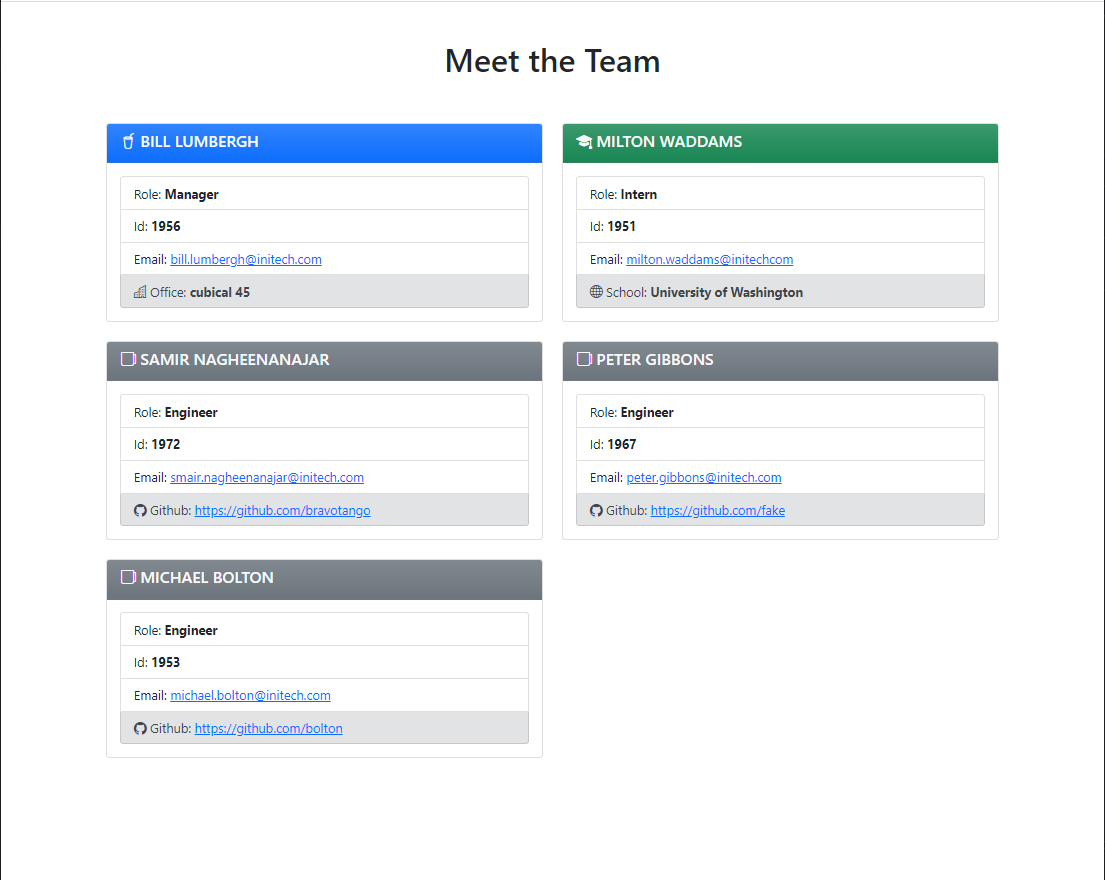
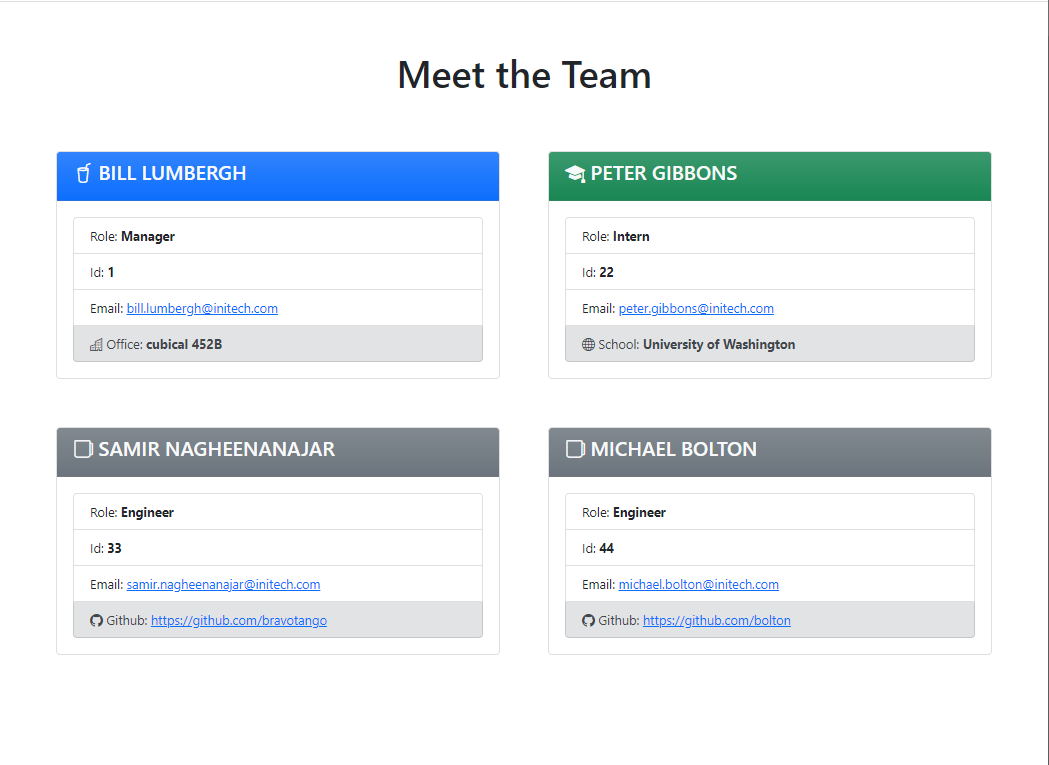
Updated README, Screenshots, & Output file

diff --git a/dist/index.html b/dist/index.html
@@ -1,0 +1,128 @@
+<!DOCTYPE html>
+  <html lang="en">
+  <head>
+      <meta charset="UTF-8">
+      <meta http-equiv="X-UA-Compatible" content="IE=edge">
+      <meta name="viewport" content="width=device-width, initial-scale=1.0">
+      <link href="https://cdn.jsdelivr.net/npm/bootstrap@5.1.3/dist/css/bootstrap.min.css" rel="stylesheet" integrity="sha384-1BmE4kWBq78iYhFldvKuhfTAU6auU8tT94WrHftjDbrCEXSU1oBoqyl2QvZ6jIW3" crossorigin="anonymous">
+      <link rel="stylesheet" href="https://cdn.jsdelivr.net/npm/bootstrap-icons@1.7.1/font/bootstrap-icons.css">
+      <style>body{font-size:80%;}</style>
+      <title>Team Profile</title>
+  </head>
+  <body>
+    <div class="container p-5">
+      <div class="row">
+        <h1 class="text-center">Meet the Team</h1>
+      </div>
+    </div>
+    <div class="container">
+      <div class="row g-5">
+        <div class="col-sm-12 col-lg-6">
+          <div class='card'>
+            <div class="card-header bg-primary bg-gradient text-light">
+              <h5 class='card-title'>
+              <i class='bi bi-cup-straw'></i>
+              BILL LUMBERGH
+              </h5>
+            </div>
+            <div class='card-body'>
+              <ul class='list-group'>
+                <li class='list-group-item'>
+                  Role: <strong>Manager</strong>
+                </li>
+                <li class='list-group-item'>
+                  Id: <strong>1</strong>
+                </li>            
+                <li class='list-group-item'>
+                  Email:  
+                  <a href="mailto: bill.lumbergh@initech.com">bill.lumbergh@initech.com</a>
+                </li>
+                <li class='list-group-item list-group-item-secondary'>
+                  <i class="bi bi-building"></i> Office: <strong>cubical 452B</strong>
+                </li>
+              </ul>
+            </div>
+          </div>
+        </div><div class="col-sm-12 col-lg-6">
+          <div class='card'>
+            <div class="card-header bg-success bg-gradient text-light">
+              <h5 class='card-title'>
+              <i class='bi bi-mortarboard-fill'></i>
+              PETER GIBBONS
+              </h5>
+            </div>
+            <div class='card-body'>
+              <ul class='list-group'>
+                <li class='list-group-item'>
+                  Role: <strong>Intern</strong>
+                </li>
+                <li class='list-group-item'>
+                  Id: <strong>22</strong>
+                </li>            
+                <li class='list-group-item'>
+                  Email:  
+                  <a href="mailto: peter.gibbons@initech.com">peter.gibbons@initech.com</a>
+                </li>
+                <li class='list-group-item list-group-item-secondary'>
+                  <i class="bi bi-globe"></i> School: <strong>University of Washington</strong>
+                </li>
+              </ul>
+            </div>
+          </div>
+        </div><div class="col-sm-12 col-lg-6">
+          <div class='card'>
+            <div class="card-header bg-secondary bg-gradient text-light">
+              <h5 class='card-title'>
+              <i class='bi bi-cup'></i>
+              SAMIR NAGHEENANAJAR
+              </h5>
+            </div>
+            <div class='card-body'>
+              <ul class='list-group'>
+                <li class='list-group-item'>
+                  Role: <strong>Engineer</strong>
+                </li>
+                <li class='list-group-item'>
+                  Id: <strong>33</strong>
+                </li>            
+                <li class='list-group-item'>
+                  Email:  
+                  <a href="mailto: samir.nagheenanajar@initech.com">samir.nagheenanajar@initech.com</a>
+                </li>
+                <li class='list-group-item list-group-item-secondary'>
+                  <i class="bi-github" role="img" aria-label="GitHub"></i> Github: <a href="https://github.com/bravotango">https://github.com/bravotango</a>
+                </li>
+              </ul>
+            </div>
+          </div>
+        </div><div class="col-sm-12 col-lg-6">
+          <div class='card'>
+            <div class="card-header bg-secondary bg-gradient text-light">
+              <h5 class='card-title'>
+              <i class='bi bi-cup'></i>
+              MICHAEL BOLTON
+              </h5>
+            </div>
+            <div class='card-body'>
+              <ul class='list-group'>
+                <li class='list-group-item'>
+                  Role: <strong>Engineer</strong>
+                </li>
+                <li class='list-group-item'>
+                  Id: <strong>44</strong>
+                </li>            
+                <li class='list-group-item'>
+                  Email:  
+                  <a href="mailto: michael.bolton@initech.com">michael.bolton@initech.com</a>
+                </li>
+                <li class='list-group-item list-group-item-secondary'>
+                  <i class="bi-github" role="img" aria-label="GitHub"></i> Github: <a href="https://github.com/bolton">https://github.com/bolton</a>
+                </li>
+              </ul>
+            </div>
+          </div>
+        </div>
+      </div>
+    </div>
+  </body>
+</html>

diff --git a/README.md b/README.md
@@ -101,13 +101,17 @@ In addition to `Employee`'s properties and methods, `Intern` also have the follo
 
 - `getRole()`&mdash;overridden to return `'Intern'`
 
-## Screen shot of generated HTML
+## Screenshots of generated HTML
 
-The following image shows the generated HTML’s appearance:
+The following image shows the generated HTML’s appearance. The styling is leveraging BootStrap CSS 5.
 
-![HTML webpage titled “My Team” features five boxes listing employee names, titles, and other key info.](./Assets/10-object-oriented-programming-homework-demo.png)
+### Desktop screenshot
 
-The styling is leveraging BootStrap CSS 5.
+![Desktop screenshot](./images/desktop.png)
+
+### Responsive mobile screenshot
+
+![mobile screenshot](./images/mobile.png)
 
 ## Starting the application
 
@@ -117,7 +121,11 @@ This application uses [Jest](https://www.npmjs.com/package/jest) for running the
 node index.js
 ```
 
-## Entries used in demo video
+## Demo video
+
+[Demo video of running tests & program & output](https://watch.screencastify.com/v/MsUQlvRll3RFSB3oDrYQ)
+
+### Entries used in demo video
 
 ```
 .
@@ -144,50 +152,6 @@ node index.js
 
 ```
 
-## Grading Requirements
+## Link to output HTML file
 
-This homework is graded based on the following criteria:
-
-### Deliverables: 15%
-
-- A sample HTML file generated using the application must be submitted.
-
-- Your GitHub repository containing your application code.
-
-### Walk-through Video: 32%
-
-- A walk-through video that demonstrates the functionality of the Team Profile Generator and passing tests must be submitted, and a link to the video should be included in your README file.
-
-- The walk-through video must show all four tests passing from the command line.
-
-- The walk-through video must demonstrate how a user would invoke the application from the command line.
-
-- The walk-through video must demonstrate how a user would enter responses to all of the prompts in the application.
-
-- The walk-through video must demonstrate a generated HTML file that matches the user input.
-
-### Repository Quality: 13%
-
-- Repository has a unique name.
-
-- Repository follows best practices for file structure and naming conventions.
-
-- Repository follows best practices for class/id naming conventions, indentation, quality comments, etc.
-
-- Repository contains multiple descriptive commit messages.
-
-- Repository contains a high-quality readme with description and a link to a walk-through video.
-
-## Review
-
-You are required to submit the following for review:
-
-- A walk-through video that demonstrates the functionality of the application and passing tests.
-
-- A sample HTML file generated using your application.
-
-- The URL of the GitHub repository, with a unique name and a readme describing the project.
-
----
-
-© 2021 Trilogy Education Services, LLC, a 2U, Inc. brand. Confidential and Proprietary. All Rights Reserved.
+[Output HTML file](https://github.com/bravotango/Team-Profile-Generator/blob/main/dist/index.html)
